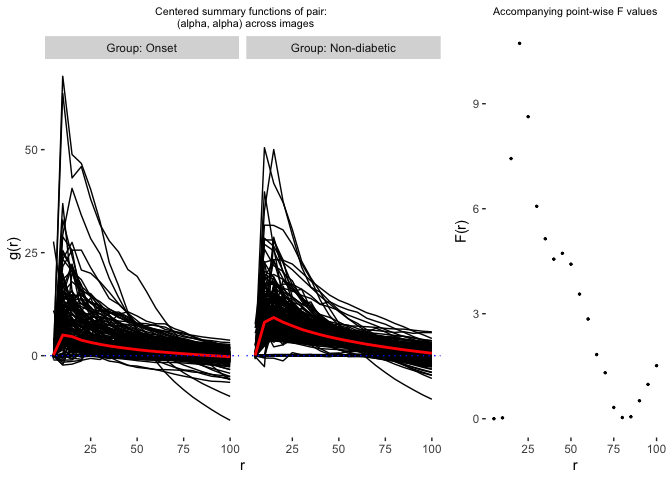
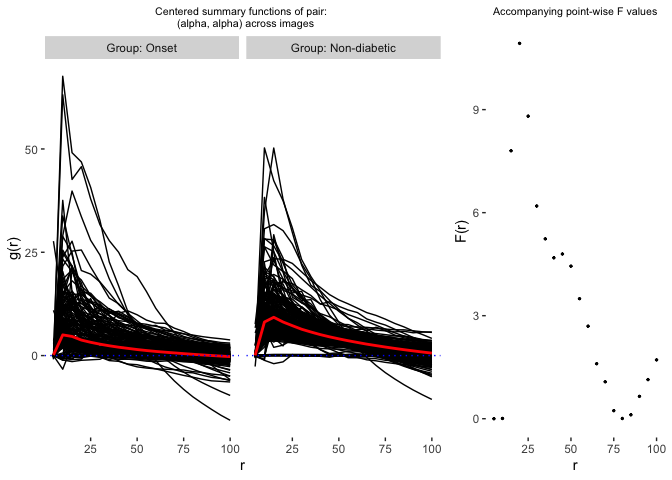
RMD update

diff --git a/README.md b/README.md
@@ -88,14 +88,9 @@ permutation envelope.
 ``` r
 
 Final_result = All_in_one(data = IMC_T1DM, fixed_r = seq(0, 100, by = 5), Summary_function = "g", Hard_ths = 10, perm = TRUE, nPerm = 20, cores = 8)
-# [1] 2
-# [1] 3
-# [1] 4
-# [1] 5
-# [1] 6
-# [1] 7
-# [1] 8
-# [1] 9
+# [1] "Summary functions computed!"
+# [1] "Functions set up for FANOVA!"
+# [1] "FANOVA complete!"
 ```
 
 ## Extracting p-values
@@ -108,20 +103,20 @@ p_res = p_extract(Final_result)
 Univ_p = p_res[[1]]
 Mult_p = p_res[[2]]
 print(Univ_p)
-#              Others           Tc          Th        alpha        delta
-# Others 6.989404e-01 1.541579e-01 0.639976780 6.119006e-15 5.954651e-05
-# Tc     1.554234e-01 1.071359e-05 0.653393507 6.877370e-10 3.253652e-01
-# Th     6.605091e-01 6.668094e-01 0.175159285 2.320952e-03 1.942847e-03
-# alpha  4.778777e-15 4.781497e-10 0.004253033 2.359871e-12 1.574602e-04
-# delta  7.254125e-05 2.934233e-01 0.001149728 1.411979e-04 4.138686e-05
-# beta   8.460704e-02 1.927666e-01 0.003808833 5.735812e-02 2.697225e-04
+#              Others           Tc           Th        alpha        delta
+# Others 7.024697e-01 1.573991e-01 0.6382938507 6.674092e-15 5.816769e-05
+# Tc     1.586754e-01 1.184891e-05 0.6527697145 6.337346e-10 2.884948e-01
+# Th     6.580101e-01 6.696070e-01 0.1670743225 3.603094e-03 7.285186e-04
+# alpha  5.226819e-15 4.773142e-10 0.0054382865 1.354056e-12 1.578452e-04
+# delta  7.196331e-05 2.449268e-01 0.0002732137 1.480241e-04 5.430399e-05
+# beta   7.662073e-02 2.182450e-01 0.0182817150 5.314018e-02 1.998622e-04
 #                beta
-# Others 7.965325e-02
-# Tc     1.926318e-01
-# Th     2.127004e-03
-# alpha  3.391455e-02
-# delta  9.125309e-06
-# beta   2.720038e-01
+# Others 7.249158e-02
+# Tc     2.179089e-01
+# Th     9.915701e-03
+# alpha  2.861402e-02
+# delta  5.455496e-06
+# beta   3.044358e-01
 ```
 
 ## Heatmap of -log10 of p-values
@@ -185,12 +180,12 @@ Plot.functions(Functional_results, pair = c("beta", "Tc"), Fvals = Pointwise_Fva
 # [[1]]
 ```
 
-<img src="README_files/figure-gfm/plotting summary functions 2-1.png" width="90%" height="70%" />
+<img src="README_files/figure-gfm/plotting summary functions 2-1.png" width="100%" height="80%" />
 
     # 
     # [[2]]
 
-<img src="README_files/figure-gfm/plotting summary functions 2-2.png" width="90%" height="70%" />
+<img src="README_files/figure-gfm/plotting summary functions 2-2.png" width="100%" height="80%" />
 
 ## Visualizing cellular organization
 
@@ -208,7 +203,7 @@ palette = c("darkorchid1","red", "cyan", "grey", "blue", "green") #assign colors
 Plot.cellTypes(data = IMC_T1DM, ID = "6126", palette = palette)
 ```
 
-<img src="README_files/figure-gfm/plotting celluar organization-1.png" width="800px" height="800px" />
+<img src="README_files/figure-gfm/plotting celluar organization-1.png" width="100%" height="700px" />
 
     # TableGrob (2 x 2) "arrange": 4 grobs
     #   z     cells    name           grob
@@ -218,7 +213,7 @@ Plot.cellTypes(data = IMC_T1DM, ID = "6126", palette = palette)
     # 4 4 (2-2,2-2) arrange gtable[layout]
     Plot.cellTypes(data = IMC_T1DM, ID = "6414", palette = palette)
 
-<img src="README_files/figure-gfm/plotting celluar organization-2.png" width="800px" height="800px" />
+<img src="README_files/figure-gfm/plotting celluar organization-2.png" width="100%" height="700px" />
 
     # TableGrob (2 x 2) "arrange": 4 grobs
     #   z     cells    name           grob
